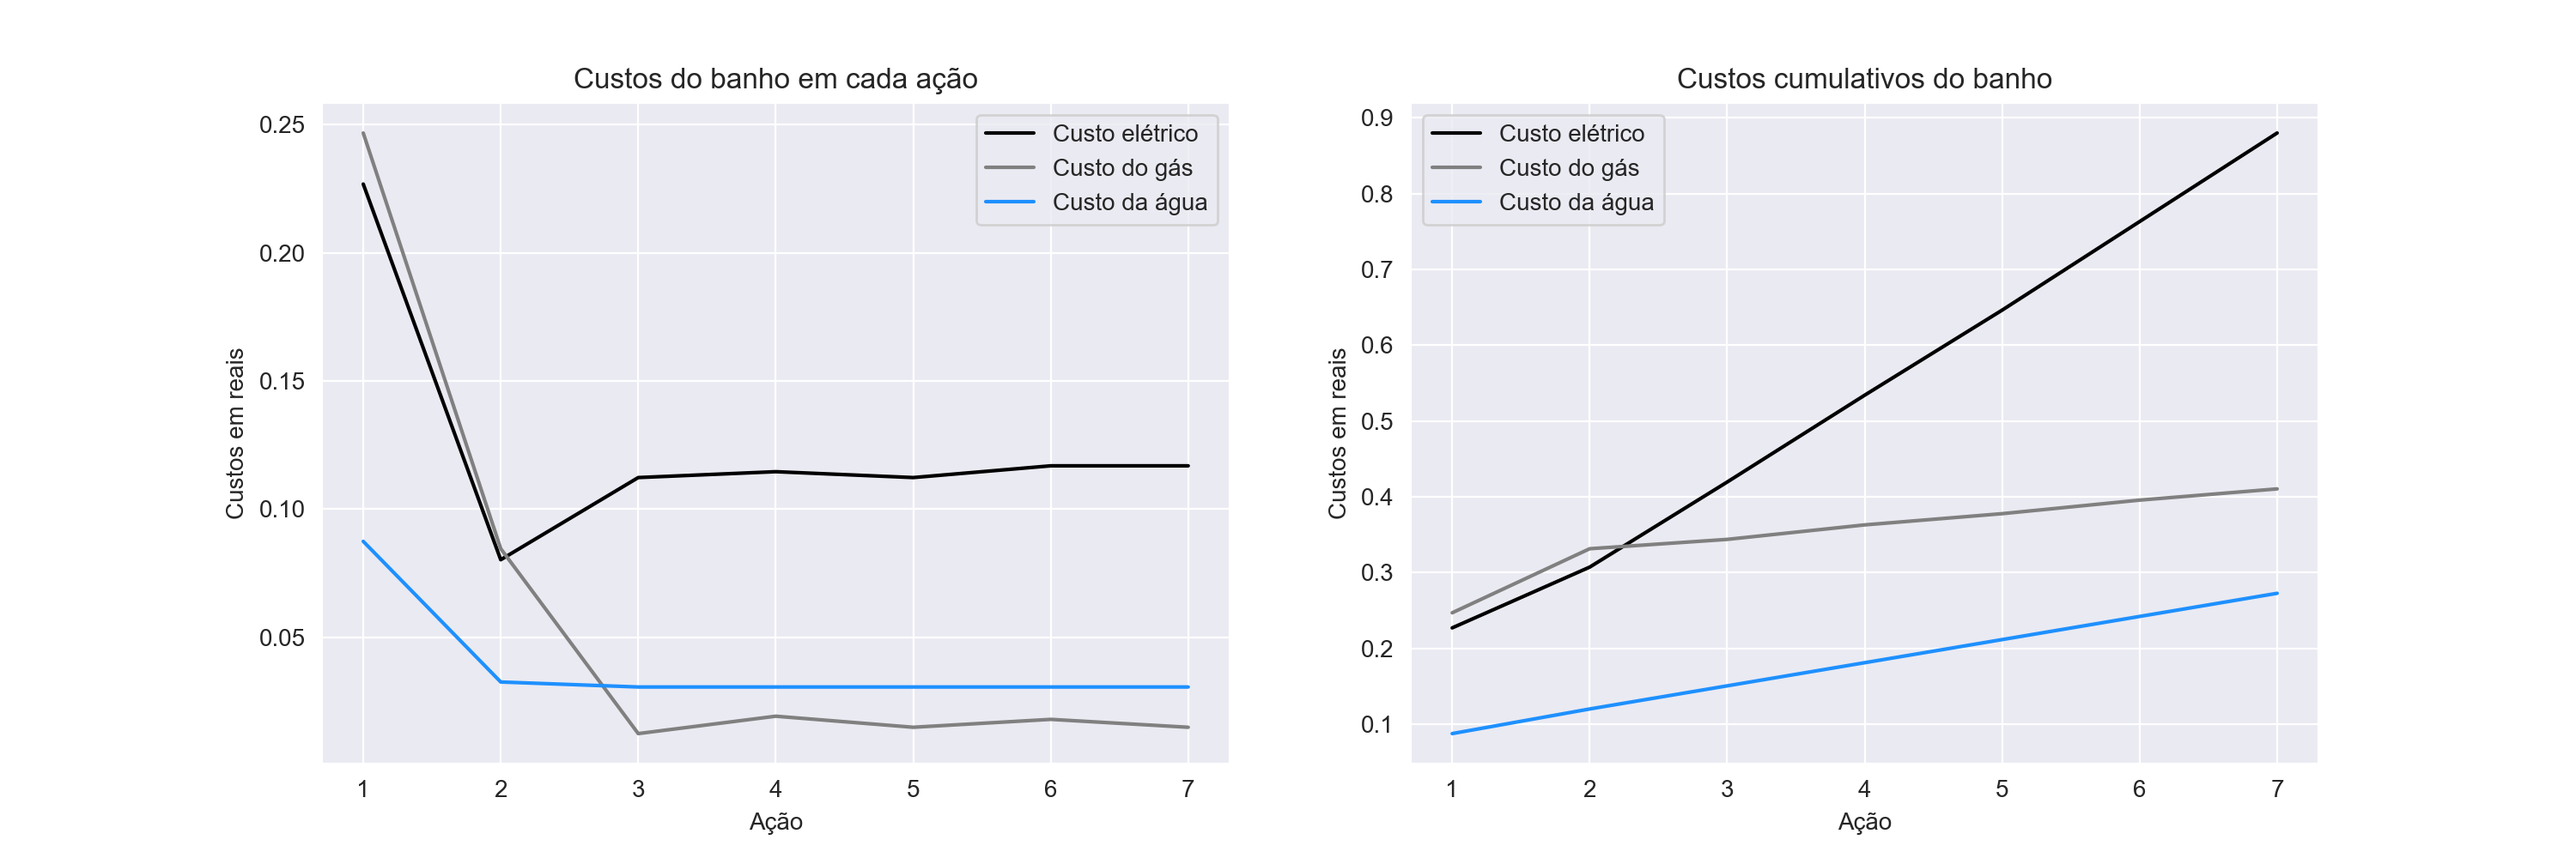
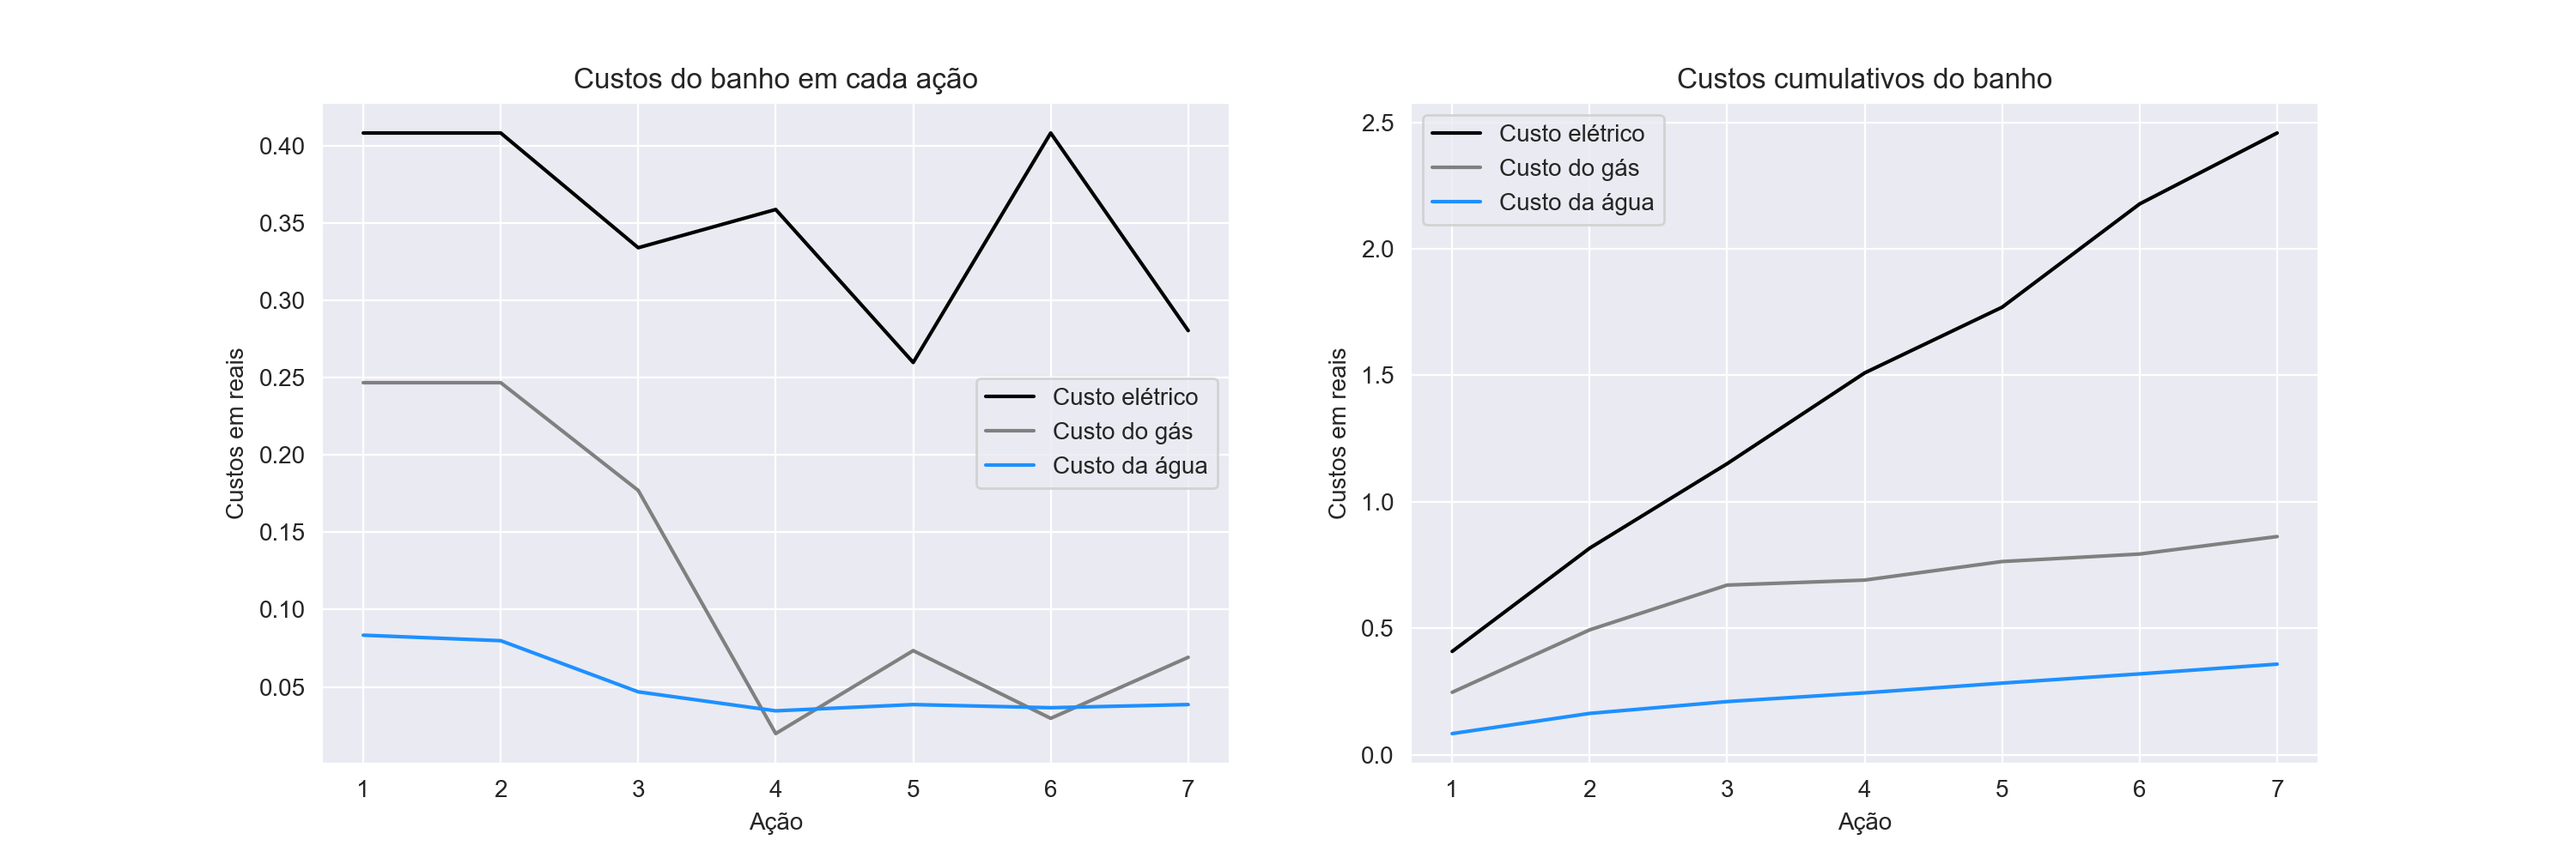
Results

diff --git a/treina_agente.py b/treina_agente.py
@@ -94,8 +94,10 @@ class ShowerEnv(gym.Env):
     def reset(self):
         
         # Temperatura ambiente e custo da energia elétrica em kWh:
-        self.Tinf = random.choice(self.Tinf_list)
-        self.custo_eletrico_kwh = random.choice(self.custo_eletrico_kwh_list)
+        # self.Tinf = random.choice(self.Tinf_list)
+        # self.custo_eletrico_kwh = random.choice(self.custo_eletrico_kwh_list)
+        self.Tinf = 15
+        self.custo_eletrico_kwh = 2.25
 
         # Distúrbios Fd e Td, temperatura da corrente fria Tf:
         self.Fd = 0
@@ -727,7 +729,7 @@ n_iter_checkpoints = 10
 # n_iter_checkpoints = 100
 
 # Treina e avalia o agente:
-treina = True
+treina = False
 avalia = True
 
 if treina:
@@ -753,7 +755,7 @@ if treina:
 if avalia:
 
     # Define o concept e o selector:
-    concept = "banho_dia_quente"
+    concept = "banho_noite_fria"
     selector = True
 
     avalia_agente(nome_algoritmo, concept, selector)
